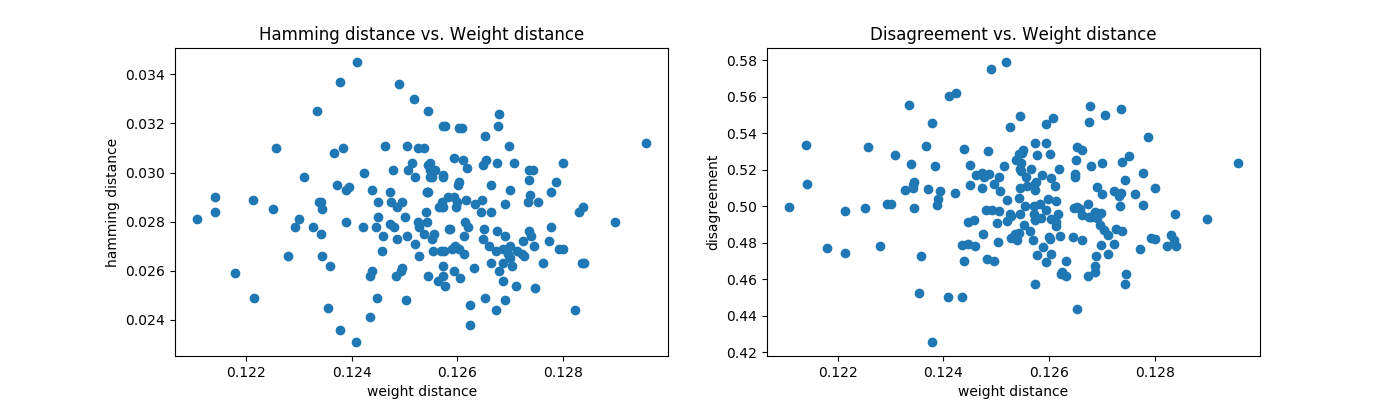
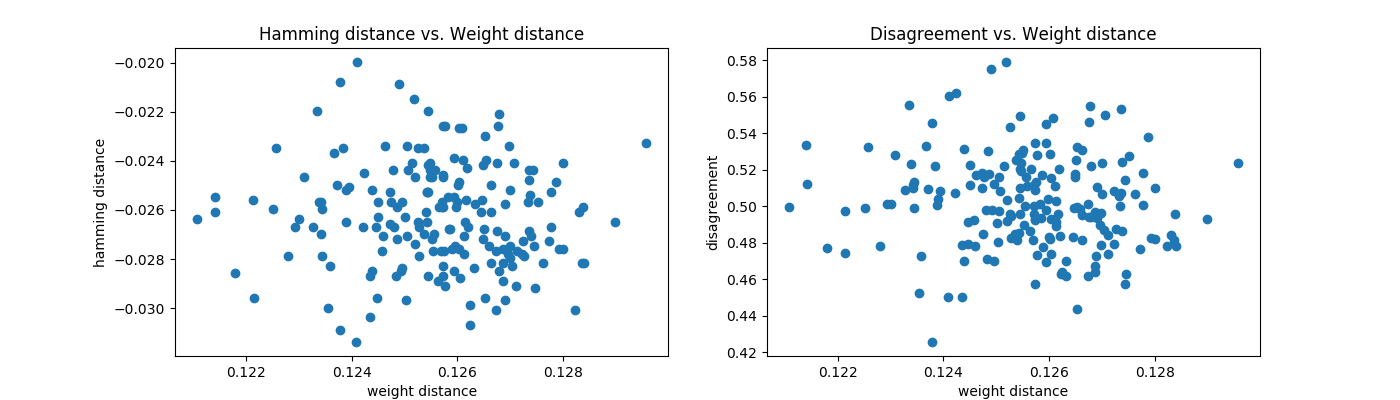
Use the hamming distance relative its expectation and add better output file printing

diff --git a/exp_shallow_nn.py b/exp_shallow_nn.py
@@ -1,4 +1,4 @@
-from __future__ import print_function
+from __future__ import print_function, division
 from NNTrainer import NNTrainer
 from models import Linear, ShallowNet, MinDeepNet, ExampleNet
 from infmetrics import get_pairwise_hamming_diffs, get_pairwise_disagreements, \
@@ -25,16 +25,19 @@ SAVED_BITMAP_DIR =  os.path.join(SAVED_MODEL_INF_DIR, 'bitmaps')
 SAVED_WEIGHTS_DIR =  os.path.join(SAVED_MODEL_INF_DIR, 'weights')
 
 
-
-def run_nn_exp(num_hidden, retrain=False):
-    bitmaps, weights = get_nn_information(num_hidden, retrain=retrain)
-    all_ham_dists, _ = get_pairwise_hamming_dists(bitmaps)
+def run_nn_exp(num_hidden, retrain=False, retest=False):
+    print()
+    print('Running experiment with %d hidden units' % num_hidden)
+    bitmaps, weights = get_nn_information(num_hidden, retrain=retrain, retest=retest)
+    bitmap_accs = map(torch.mean, bitmaps)
+    avg_acc = sum(bitmap_accs) / len(bitmaps)
+    print('Average accuracy over %d trials:' % len(bitmaps), avg_acc)
+    all_ham_dists, _ = get_pairwise_hamming_diffs(bitmaps, avg_acc)
     all_disagreements, _ = get_pairwise_disagreements(bitmaps)
     all_weight_dists, _ = get_pairwise_weight_dists_normalized(weights)
     print_summary(all_ham_dists, '%s RESULT for %d hidden units' % ('hamming', num_hidden))
     print_summary(all_disagreements, '%s RESULT for %d hidden units' % ('disagreement', num_hidden))
     print_summary(all_weight_dists, '%s RESULT for %d hidden units' % ('weights', num_hidden))
-    print()
     plot_results(num_hidden, all_ham_dists, all_disagreements, all_weight_dists, same_figure=False)
     plot_results(num_hidden, all_ham_dists, all_disagreements, all_weight_dists, same_figure=True)
     # return all_ham_dists, all_disagreements, all_weight_dists
@@ -73,12 +76,11 @@ def get_nn_information(num_hidden, retrain=False, retest=False):
             load_models = False
             
     if load_model_inf:
-        print('Saved model information found! Loading it...')
+        print('Saved model information found! Loading it from SLURM id %s...' % saved_slurm_id)
     elif load_models:
-        print('Saved models found! Loading them...')
+        print('Saved models found! Loading them from SLURM id %s...' % saved_slurm_id)
     else:
         print('No saved models found or purposefully retraining. Running training...')
-        exit('Not tryna retrain right now, mate')
             
     bitmaps = []
     weights = []

diff --git a/NNTrainer.py b/NNTrainer.py
@@ -95,7 +95,7 @@ class NNTrainer:
         self.model.eval()
         test_loss = 0
         num_correct = 0
-        correct = torch.ByteTensor(0, 1)
+        correct = torch.FloatTensor(0, 1)
         for data, target in self.test_loader:
             if self.cuda:
                 data, target = data.cuda(), target.cuda()
@@ -103,7 +103,7 @@ class NNTrainer:
             output = self.model(data)
             test_loss += F.nll_loss(output, target, size_average=False).data[0] # sum up batch loss
             pred = output.data.max(1, keepdim=True)[1] # get the index of the max log-probability
-            batch_correct = pred.eq(target.data.view_as(pred)).cpu()
+            batch_correct = pred.eq(target.data.view_as(pred)).type(torch.FloatTensor).cpu()
             correct = torch.cat([correct, batch_correct], 0)
             num_correct += batch_correct.sum()
 
